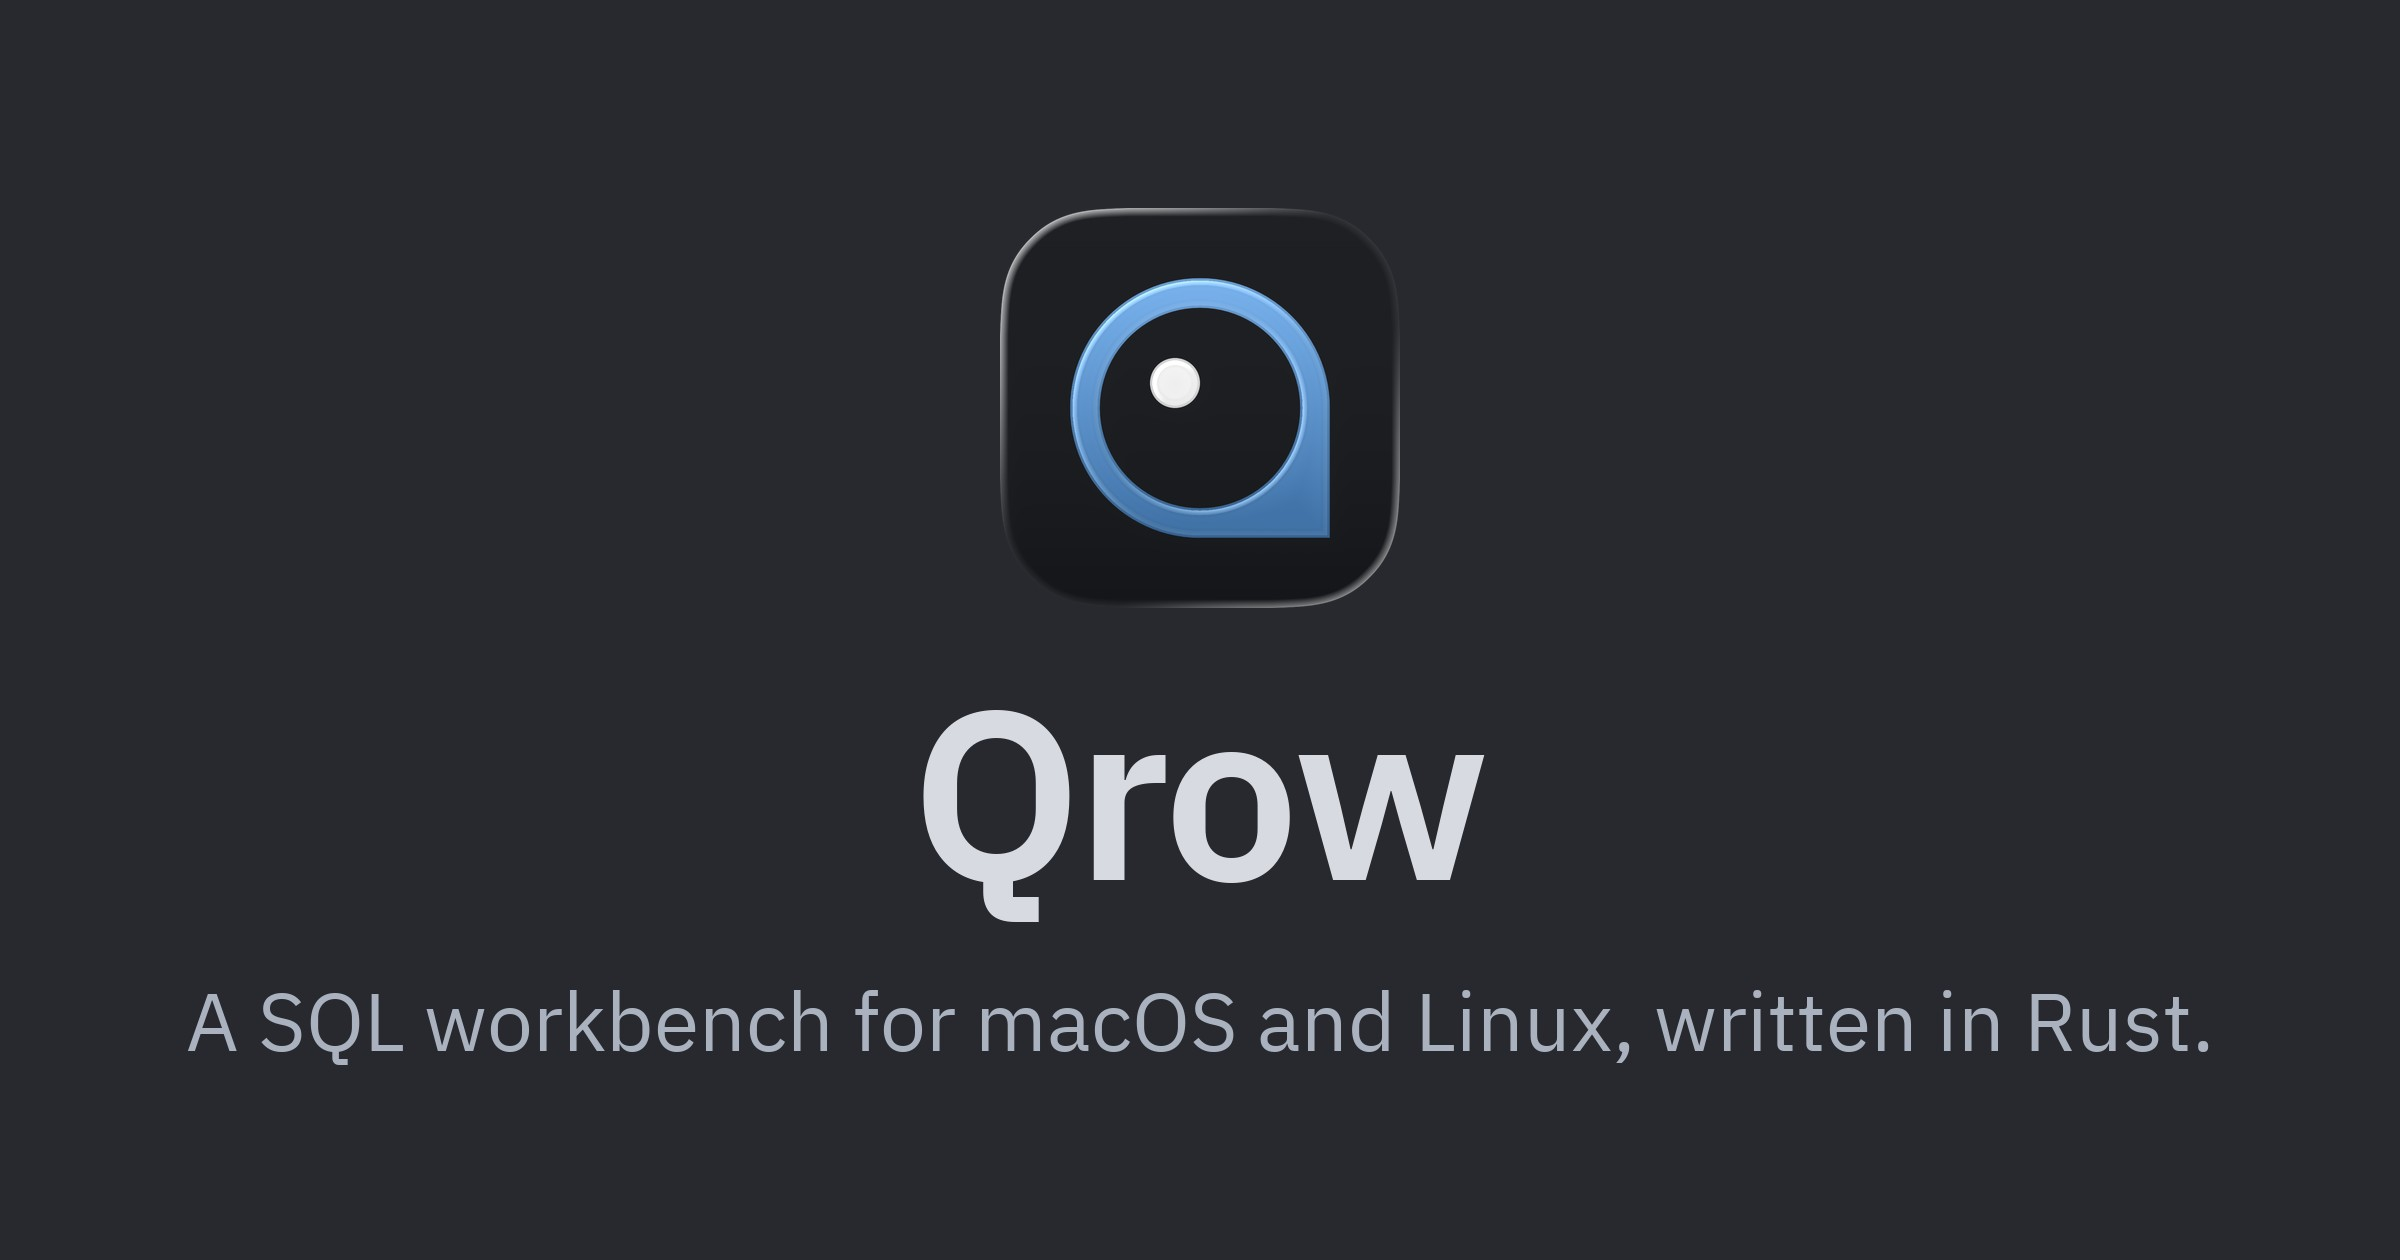
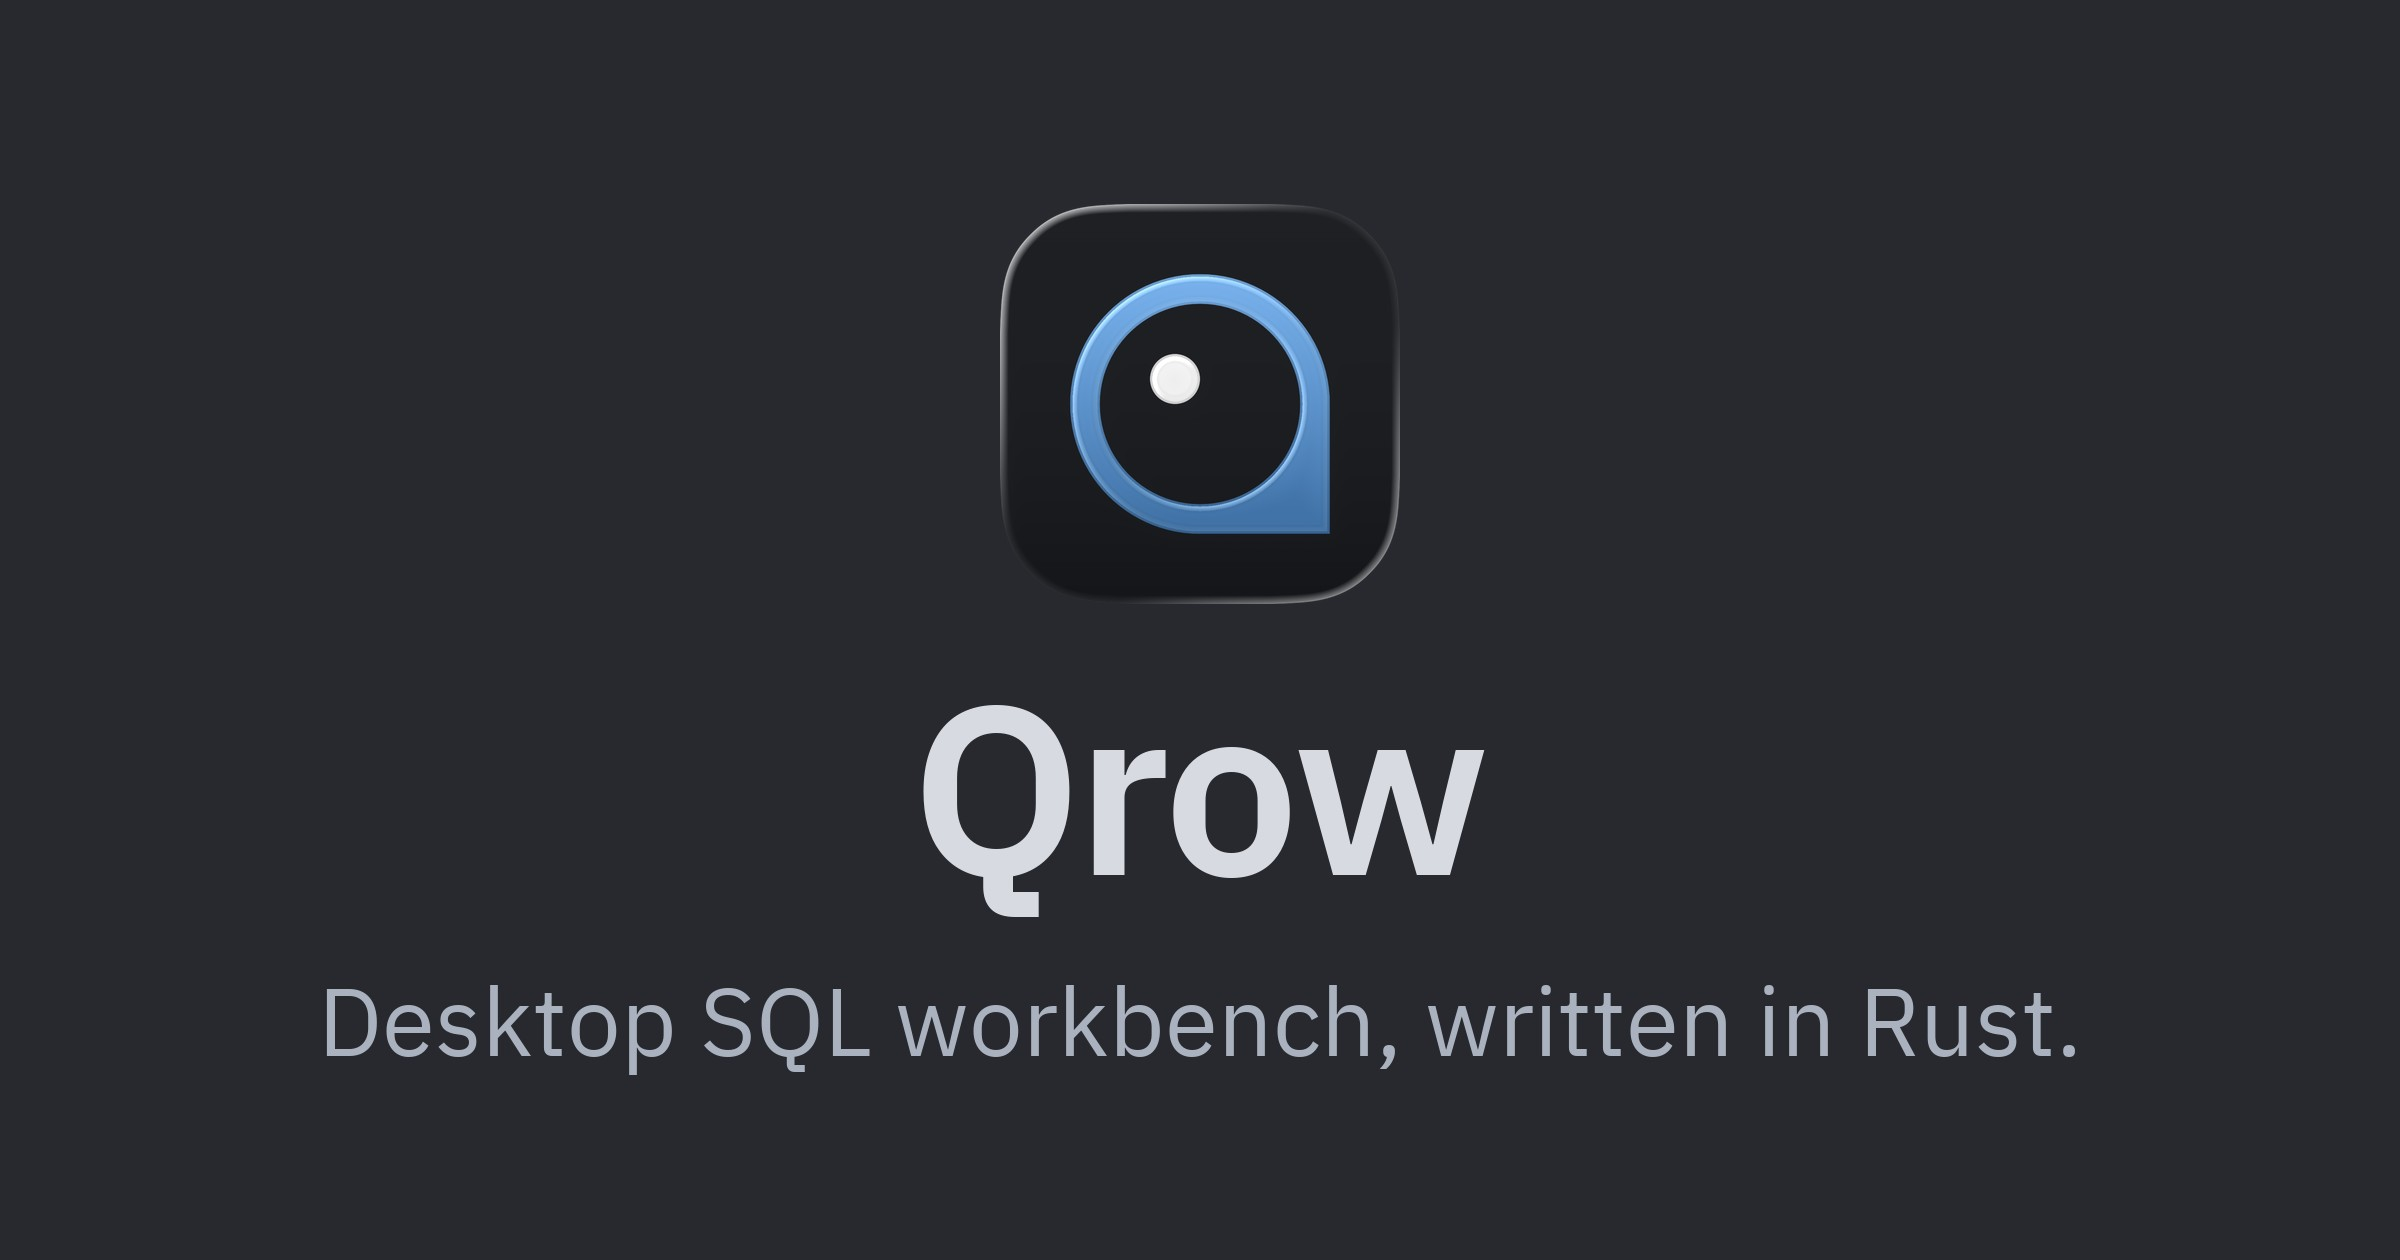
feat(website): use a shorter one-liner and drop the install command
The description is now "Desktop SQL workbench, written in Rust." It does
not list each operating system, so it stays correct with more platforms.

The page keeps only the GitHub button. The Homebrew command was macOS-only,
and the app is not notarized, so Gatekeeper blocks the first launch without
the steps in the README. The copy button, tooltips, site.js, JetBrains Mono,
and the Lucide icons were used only by the command.

diff --git a/website/styles.css b/website/styles.css
@@ -5,7 +5,6 @@
 @font-face { font-family: "IBM Plex Sans"; src: url("fonts/IBMPlexSans-Regular.woff2") format("woff2"); font-weight: 400; font-display: swap; }
 @font-face { font-family: "IBM Plex Sans"; src: url("fonts/IBMPlexSans-Medium.woff2") format("woff2"); font-weight: 500; font-display: swap; }
 @font-face { font-family: "IBM Plex Sans"; src: url("fonts/IBMPlexSans-SemiBold.woff2") format("woff2"); font-weight: 600; font-display: swap; }
-@font-face { font-family: "JetBrains Mono"; src: url("fonts/JetBrainsMono-Regular.woff2") format("woff2"); font-weight: 400; font-display: swap; }
 
 :root {
   color-scheme: dark;
@@ -23,7 +22,6 @@
   --primary-active: #528bcc;
 
   --sans: "IBM Plex Sans", -apple-system, BlinkMacSystemFont, "Segoe UI", sans-serif;
-  --mono: "JetBrains Mono", ui-monospace, "SF Mono", Menlo, monospace;
   --radius: 6px;
   --gutter: 24px;
 }
@@ -60,23 +58,7 @@ a { color: inherit; text-decoration: none; }
 .btn-primary { background: var(--primary); color: var(--primary-fg); }
 .btn-primary:hover { background: var(--primary-hover); }
 .btn-primary:active { background: var(--primary-active); }
-.btn-ghost:hover { background: var(--hover); color: var(--fg-strong); }
-.btn-icon { width: 32px; padding: 0; }
 .btn-lg { height: 40px; padding: 0 16px; font-size: 15px; }
-
-/* Tooltips: show after a short delay, hide on mouse-out. */
-[data-tip]::after {
-  content: attr(data-tip);
-  position: absolute; right: 0; top: calc(100% + 6px);
-  padding: 3px 8px;
-  background: var(--surface); color: var(--fg-strong);
-  border: 1px solid var(--border); border-radius: var(--radius);
-  font: 400 12px/1.4 var(--sans); white-space: nowrap;
-  box-shadow: 0 4px 14px rgba(0, 0, 0, 0.2);
-  opacity: 0; pointer-events: none; transition: opacity 0.1s;
-  z-index: 20;
-}
-[data-tip]:hover::after, [data-tip]:focus-visible::after { opacity: 1; transition-delay: 0.45s; }
 
 /* Hero */
 .hero { position: relative; padding: 80px var(--gutter) 0; text-align: center; }
@@ -84,15 +66,6 @@ a { color: inherit; text-decoration: none; }
 h1 { margin: 20px 0 0; color: var(--fg-strong); font-size: clamp(40px, 6vw, 56px); font-weight: 600; line-height: 1.05; letter-spacing: -0.025em; }
 .lede { margin: 12px 0 0; font-size: 18px; }
 .cta { display: flex; flex-wrap: wrap; justify-content: center; align-items: center; gap: 12px; margin-top: 32px; }
-.cmd {
-  display: inline-flex; align-items: center; gap: 10px;
-  height: 40px; max-width: 100%; padding: 0 4px 0 14px;
-  background: var(--surface); border: 1px solid var(--border); border-radius: var(--radius);
-  font-family: var(--mono); font-size: 13.5px;
-}
-.cmd code { color: var(--fg-strong); font: inherit; white-space: nowrap; overflow: hidden; text-overflow: ellipsis; min-width: 0; }
-.cmd-prompt { color: var(--muted); }
-.cmd .copy { width: 30px; height: 30px; }
 
 /* Screenshot with a soft shadow. */
 .stage {
@@ -119,8 +92,6 @@ a.status-item:hover { background: var(--hover); color: var(--fg-strong); }
   .hero { padding-top: 48px; }
   .app-icon { width: 80px; height: 80px; border-radius: 18px; }
   .lede { font-size: 16.5px; }
-  .cta { flex-direction: column; align-items: stretch; }
-  .cmd { width: 100%; }
   .stage { margin-top: 40px; }
   .statusbar { margin-top: 64px; }
 }

diff --git a/website/index.html b/website/index.html
@@ -4,17 +4,17 @@
   <meta charset="utf-8">
   <meta name="viewport" content="width=device-width, initial-scale=1">
   <title>Qrow</title>
-  <meta name="description" content="A SQL workbench for macOS and Linux, written in Rust.">
+  <meta name="description" content="Desktop SQL workbench, written in Rust.">
   <meta name="color-scheme" content="dark">
   <meta name="theme-color" content="#27292e">
   <meta property="og:title" content="Qrow">
-  <meta property="og:description" content="A SQL workbench for macOS and Linux, written in Rust.">
+  <meta property="og:description" content="Desktop SQL workbench, written in Rust.">
   <meta property="og:type" content="website">
   <meta property="og:url" content="https://qrow.dev/">
   <meta property="og:image" content="https://qrow.dev/media/og.jpg">
   <meta property="og:image:width" content="2400">
   <meta property="og:image:height" content="1260">
-  <meta property="og:image:alt" content="The Qrow icon and name, with the line: A SQL workbench for macOS and Linux, written in Rust.">
+  <meta property="og:image:alt" content="The Qrow icon and name, with the line: Desktop SQL workbench, written in Rust.">
   <meta name="twitter:card" content="summary_large_image">
   <link rel="canonical" href="https://qrow.dev/">
   <link rel="icon" type="image/png" href="icons/favicon-64.png">
@@ -23,29 +23,15 @@
   <link rel="stylesheet" href="styles.css">
 </head>
 <body>
-  <!-- Lucide icons (ISC License), the icon set of the app. -->
-  <svg xmlns="http://www.w3.org/2000/svg" style="display:none" aria-hidden="true">
-    <symbol id="i-copy" viewBox="0 0 24 24"><rect width="14" height="14" x="8" y="8" rx="2" ry="2"/><path d="M4 16c-1.1 0-2-.9-2-2V4c0-1.1.9-2 2-2h10c1.1 0 2 .9 2 2"/></symbol>
-    <symbol id="i-check" viewBox="0 0 24 24"><path d="M20 6 9 17l-5-5"/></symbol>
-    <symbol id="i-github" viewBox="0 0 24 24"><path d="M15 22v-4a4.8 4.8 0 0 0-1-3.5c3 0 6-2 6-5.5.08-1.25-.27-2.48-1-3.5.28-1.15.28-2.35 0-3.5 0 0-1 0-3 1.5-2.64-.5-5.36-.5-8 0C6 2 5 2 5 2c-.3 1.15-.3 2.35 0 3.5A5.403 5.403 0 0 0 4 9c0 3.5 3 5.5 6 5.5-.39.49-.68 1.05-.85 1.65-.17.6-.22 1.23-.15 1.85v4"/><path d="M9 18c-4.51 2-5-2-7-2"/></symbol>
-  </svg>
-
   <main>
     <section class="hero">
       <img class="app-icon" src="icons/qrow-256.png" alt="" width="96" height="96">
       <h1>Qrow</h1>
-      <p class="lede">A SQL workbench for macOS and Linux, written in Rust.</p>
+      <p class="lede">Desktop SQL workbench, written in Rust.</p>
       <div class="cta">
         <a class="btn btn-primary btn-lg" href="https://github.com/vsevolodbazhan/qrow">
           <span>View on GitHub</span>
         </a>
-        <div class="cmd" data-copy="brew tap vsevolodbazhan/qrow &amp;&amp; brew install --cask vsevolodbazhan/qrow/qrow">
-          <span class="cmd-prompt" aria-hidden="true">$</span>
-          <code>brew install --cask vsevolodbazhan/qrow/qrow</code>
-          <button class="btn btn-ghost btn-icon copy" type="button" aria-label="Copy install commands" data-tip="Copy">
-            <svg class="icon"><use href="#i-copy"/></svg>
-          </button>
-        </div>
       </div>
     </section>
 
@@ -67,6 +53,5 @@
     </div>
   </footer>
 
-  <script src="site.js" defer></script>
 </body>
 </html>

diff --git a/website/README.md b/website/README.md
@@ -19,24 +19,22 @@ The page uses the look of the app:
 
 - The colors come from the One Dark theme in
   [src/one-dark.json](../src/one-dark.json). The page has no light theme.
-- The fonts are the app defaults: IBM Plex Sans for text and JetBrains Mono
-  for code. `fonts/` has WOFF2 subsets of the files in
-  [assets/fonts](../assets/fonts), with their licenses.
+- The font is IBM Plex Sans, the default text font of the app. `fonts/` has
+  WOFF2 subsets of the files in [assets/fonts](../assets/fonts), with the
+  license.
 - The screenshot has a soft shadow and no frame.
-- The footer copies the status bar of the app. The icons are Lucide icons, the
-  icon set of GPUI Kit.
+- The footer copies the status bar of the app.
 
 ## Update the fonts
 
 Make the subsets again after a font update in `assets/fonts`:
 
 ```sh
-for f in ibm-plex-sans/IBMPlexSans-Regular ibm-plex-sans/IBMPlexSans-Medium \
-         ibm-plex-sans/IBMPlexSans-SemiBold jetbrains-mono/JetBrainsMono-Regular; do
-    uv run --with fonttools --with brotli pyftsubset "assets/fonts/$f.ttf" \
+for f in IBMPlexSans-Regular IBMPlexSans-Medium IBMPlexSans-SemiBold; do
+    uv run --with fonttools --with brotli pyftsubset "assets/fonts/ibm-plex-sans/$f.ttf" \
         --unicodes="U+0000-00FF,U+0131,U+0152-0153,U+02C6,U+02DA,U+02DC,U+2000-206F,U+2190-21FF,U+2212,U+2215,U+2264-2265,U+2303,U+2318,U+2325,U+232B" \
         --layout-features='*' --flavor=woff2 \
-        --output-file="website/fonts/$(basename "$f").woff2"
+        --output-file="website/fonts/$f.woff2"
 done
 ```
 

diff --git a/README.md b/README.md
@@ -4,7 +4,7 @@
 
 # Qrow
 
-A SQL workbench for macOS and Linux, written in Rust. Built with [GPUI](https://gpui.rs/) and [GPUI Kit](https://github.com/longbridge/gpui-kit).
+Desktop SQL workbench, written in Rust. Built with [GPUI](https://gpui.rs/) and [GPUI Kit](https://github.com/longbridge/gpui-kit).
 
 ![Qrow demo with the schema catalog and assistant](assets/screenshots/demo.png)
 
